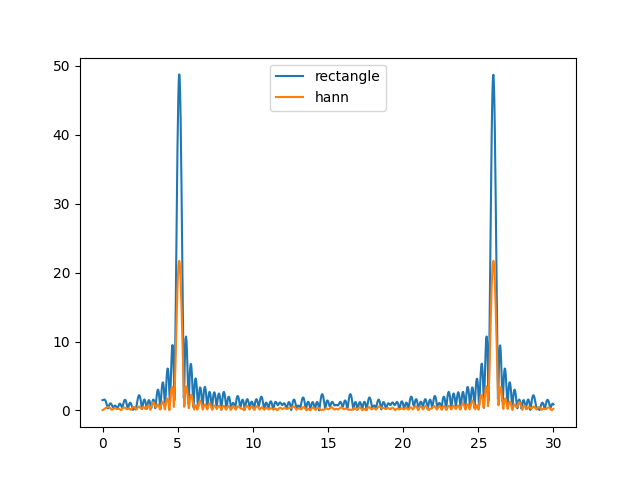
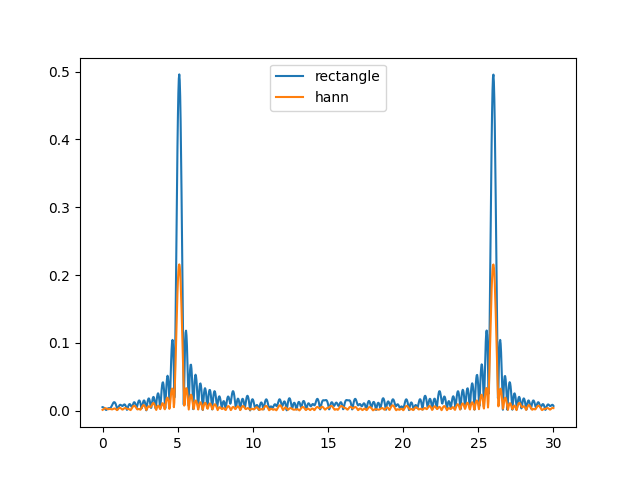
Small cosmetic update

diff --git a/lesson_12/fourier.py b/lesson_12/fourier.py
@@ -5,24 +5,11 @@ import numpy as np
 
 
 def window_fourier(
-    f: Callable[[float], float], h: Callable[[float], float], a: float, b: float, n: int
+    f: Callable[[float], float],
+    h: Callable[[float], float],
+    T: np.array,
 ) -> Callable[[float], float]:
-    """
-    Returns a function that is the windowed Fourier series of f with window h and n terms.
-
-    Args:
-        f (Callable[[float], float]): The function to approximate.
-        h (Callable[[float], float]): The window function.
-        a (float): The lower bound of the interval.
-        b (float): The upper bound of the interval.
-        n (int): The number of terms in the Fourier series.
-
-    Returns:
-        Callable[[float], float]: The windowed Fourier series of f with window h and n terms.
-
-    """
-    T = np.linspace(a, b, n)
-    return lambda w: sum(f(t) * h(t, T) * np.exp(-1j * w * t) for t in T)
+    return lambda w: sum(f(t) * h(t, T) * np.exp(-1j * w * t) for t in T) / len(T)
 
 
 if __name__ == "__main__":
@@ -41,9 +28,10 @@ if __name__ == "__main__":
         return 0.5 * (1 - 2 * np.cos(2 * np.pi * t / len(T)))
 
     a, b, n = -10, 10, 100
+    T = np.linspace(a, b, n)
     w = np.linspace(0, 30, 1000)
 
-    plt.plot(w, np.abs(window_fourier(f, rectangle, a, b, n)(w)), label="rectangle")
-    plt.plot(w, np.abs(window_fourier(f, hann, a, b, n)(w)), label="hann")
+    plt.plot(w, np.abs(window_fourier(f, rectangle, T)(w)), label="rectangle")
+    plt.plot(w, np.abs(window_fourier(f, hann, T)(w)), label="hann")
     plt.legend()
     plt.savefig("lesson_12/fourier.png")
